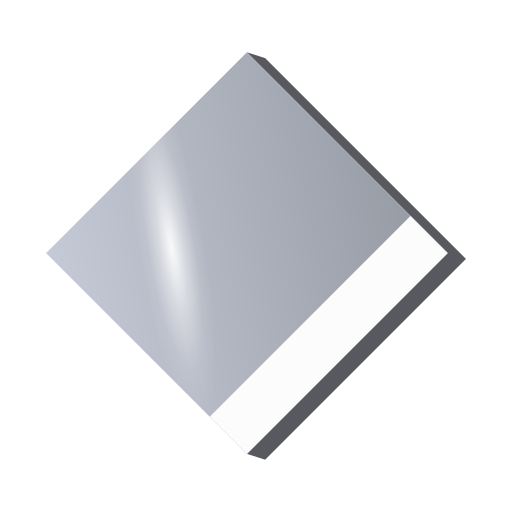
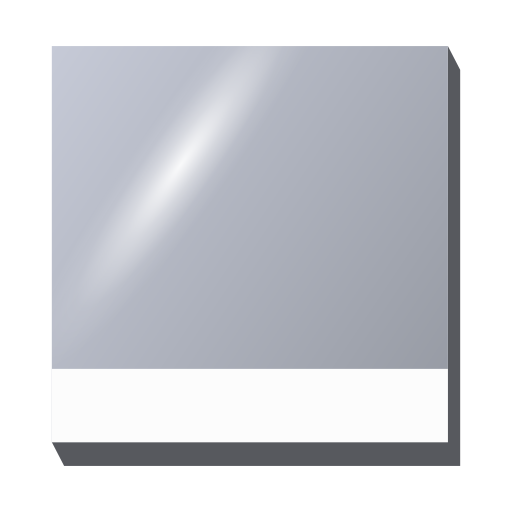
El cubo va de pie: dos esquinas arriba y dos abajo, no de canto
Un solo numero: GIRO pasa de -45 a 0. Todo lo demas del cubo —el canto,
la banda blanca, el reflejo y el plano del degradado de la plata— va
medido en los ejes de la CARA y no en los de la pantalla, asi que gira
con ella sin deformarse. Ese fue el motivo de haberlo escrito asi.

Rehechos desde el vector: los cinco SVG (pestana, sencillo, app, app
sencillo y silueta para Safari), los ocho PNG del juego de iconos, el
.ico con sus seis tamanos dibujados uno a uno, los dos <symbol> que la
web usa por dentro y las tres imagenes de compartir.

La palabra de la marca sigue clavada en el canto de abajo. El numero que
la coloca cambia con la forma —el dibujo pasa de ocupar del 3,5 % al
96,5 % de su recuadro a ocupar del 2,08 % al 97,92 %—, asi que el 0,465
pasa a 0,4792. Y la bateria deja de llevar esa fraccion escrita: ahora
la mide con getBBox sobre el propio simbolo, de modo que si el cubo
vuelve a cambiar de forma la comprobacion cambia con el en vez de
quedarse mintiendo.

Las 18 baterias en verde.

Claude-Session: https://claude.ai/code/session_01LJT6Q3uWtj4pZqCrqcq3WD

diff --git a/index.html b/index.html
@@ -1730,20 +1730,20 @@ html[dir="rtl"] .subir{left:16px !important;right:auto !important}
    doble de lo que parecía. */
 .hd .brand{--n:30px;gap:5px;align-items:center}
 .hd .brand svg{width:var(--n);height:var(--n)}
-/* La palabra se apoya en la punta de abajo del rombo, clavada.
+/* La palabra se apoya en el canto de abajo del cubo, clavada.
    No vale align-items:baseline en el .brand: eso alinea, sí, pero de paso
    mete debajo el hueco de las letras con rabo, la caja de la marca crece y,
    al centrarse en la barra, el conjunto sube y la palabra queda colgando.
-   Se hace al revés: el rombo se queda centrado en la barra —donde estaba— y
+   Se hace al revés: el cubo se queda centrado en la barra —donde estaba— y
    la palabra se baja ella sola, sin tocar la maquetación.
 
    El número no es a ojo. Con line-height:1 y centrada, la línea de base cae
-   0,3824 em por debajo del centro del rombo (métrica de la Switzer), y la
-   punta cae 0,465 × el lado del rombo (el dibujo ocupa del 3,5 % al 96,5 %
-   de su recuadro, medido con getBBox). La diferencia es lo que hay que
-   bajar, y escrito así sigue saliendo bien si cambia el cuerpo o el tamaño
-   del logotipo. */
-.hd .brand .bw{line-height:1;transform:translateY(calc(var(--n) * 0.465 - 0.3824em))}
+   0,3824 em por debajo del centro del cubo (métrica de la Switzer), y el
+   canto de abajo cae 0,4792 × el lado del cubo: el dibujo ocupa del 2,08 %
+   al 97,92 % de su recuadro, medido con getBBox. La diferencia es lo que hay
+   que bajar, y escrito así sigue saliendo bien si cambia el cuerpo o el
+   tamaño del logotipo. */
+.hd .brand .bw{line-height:1;transform:translateY(calc(var(--n) * 0.4792 - 0.3824em))}
 /* ── el boton de whitepaper, al extremo derecho ─────────────────────────────
    Quien lo empujaba a la derecha era el nav del centro (margin-inline:auto).
    Al ocultar esos enlaces en escritorio, la regla de 1000px que anula el
@@ -1912,27 +1912,29 @@ html[dir="rtl"] .ann-in:hover .ann-go{transform:scaleX(-1) translateX(4px)}
      anterior. Los degradados van aqui fuera y no dentro de cada <symbol>,
      porque referenciar un id desde dentro del arbol que clona <use> no es
      fiable en todos los navegadores; declarados en el documento, si.
-     Van en userSpaceOnUse, en el espacio local del <g> del simbolo. -->
+     Van en userSpaceOnUse, en el espacio local del <g> del simbolo.
+     Se generan con herramientas/logo/logo.py; el cubo va de pie (GIRO 0),
+     no de canto. -->
 <defs>
-  <linearGradient id="nrmPlata" gradientUnits="userSpaceOnUse" x1="63.94" y1="390.33" x2="608.06" y2="281.67"><stop offset="0" stop-color="#C6CAD7"/><stop offset="1" stop-color="#9498A1"/></linearGradient>
-  <radialGradient id="nrmBrillo" gradientUnits="userSpaceOnUse" cx="0" cy="0" r="1" gradientTransform="translate(229.93 328.93) rotate(-9.60) scale(47.20 252.40)"><stop offset="0" stop-color="#fff" stop-opacity="0.92"/><stop offset=".36" stop-color="#fff" stop-opacity="0.43"/><stop offset=".70" stop-color="#fff" stop-opacity="0.10"/><stop offset="1" stop-color="#fff" stop-opacity="0"/></radialGradient>
+  <linearGradient id="nrmPlata" gradientUnits="userSpaceOnUse" x1="105.20" y1="182.04" x2="566.80" y2="489.96"><stop offset="0" stop-color="#C6CAD7"/><stop offset="1" stop-color="#9498A1"/></linearGradient>
+  <radialGradient id="nrmBrillo" gradientUnits="userSpaceOnUse" cx="0" cy="0" r="1" gradientTransform="translate(266.00 256.00) rotate(35.40) scale(47.20 252.40)"><stop offset="0" stop-color="#fff" stop-opacity="0.92"/><stop offset=".36" stop-color="#fff" stop-opacity="0.43"/><stop offset=".70" stop-color="#fff" stop-opacity="0.10"/><stop offset="1" stop-color="#fff" stop-opacity="0"/></radialGradient>
 </defs>
 <symbol id="nlogo" viewBox="0 0 672 672">
-  <g transform="translate(-43.88 -34.34) scale(1.0889)">
-    <path fill="#57595E" d="M336.00 53.16 L361.74 61.36 L644.58 344.20 L361.74 627.05 L336.00 618.84 L618.84 336.00 Z"/>
-    <path fill="url(#nrmPlata)" d="M53.16 336.00 L336.00 53.16 L618.84 336.00 L336.00 618.84 Z"/>
-    <path fill="url(#nrmBrillo)" d="M53.16 336.00 L336.00 53.16 L618.84 336.00 L336.00 618.84 Z"/>
-    <path fill="#FCFCFC" d="M283.67 566.52 L566.52 283.67 L618.84 336.00 L336.00 618.84 Z"/>
+  <g transform="translate(-183.76 -192.57) scale(1.5189)">
+    <path fill="#57595E" d="M536.00 136.00 L548.40 160.00 L548.40 560.00 L148.40 560.00 L136.00 536.00 L536.00 536.00 Z"/>
+    <path fill="url(#nrmPlata)" d="M136.00 136.00 L536.00 136.00 L536.00 536.00 L136.00 536.00 Z"/>
+    <path fill="url(#nrmBrillo)" d="M136.00 136.00 L536.00 136.00 L536.00 536.00 L136.00 536.00 Z"/>
+    <path fill="#FCFCFC" d="M136.00 462.00 L536.00 462.00 L536.00 536.00 L136.00 536.00 Z"/>
   </g>
 </symbol>
 <!-- El pequeno lleva el mismo reflejo: sin el, a 30 px en la cabecera el cubo
      se veia plano, que es justo donde mas se mira. -->
 <symbol id="nlogo-s" viewBox="0 0 672 672">
-  <g transform="translate(-43.88 -34.34) scale(1.0889)">
-    <path fill="#57595E" d="M336.00 53.16 L361.74 61.36 L644.58 344.20 L361.74 627.05 L336.00 618.84 L618.84 336.00 Z"/>
-    <path fill="url(#nrmPlata)" d="M53.16 336.00 L336.00 53.16 L618.84 336.00 L336.00 618.84 Z"/>
-    <path fill="url(#nrmBrillo)" d="M53.16 336.00 L336.00 53.16 L618.84 336.00 L336.00 618.84 Z"/>
-    <path fill="#FCFCFC" d="M283.67 566.52 L566.52 283.67 L618.84 336.00 L336.00 618.84 Z"/>
+  <g transform="translate(-183.76 -192.57) scale(1.5189)">
+    <path fill="#57595E" d="M536.00 136.00 L548.40 160.00 L548.40 560.00 L148.40 560.00 L136.00 536.00 L536.00 536.00 Z"/>
+    <path fill="url(#nrmPlata)" d="M136.00 136.00 L536.00 136.00 L536.00 536.00 L136.00 536.00 Z"/>
+    <path fill="url(#nrmBrillo)" d="M136.00 136.00 L536.00 136.00 L536.00 536.00 L136.00 536.00 Z"/>
+    <path fill="#FCFCFC" d="M136.00 462.00 L536.00 462.00 L536.00 536.00 L136.00 536.00 Z"/>
   </g>
 </symbol></svg>
 <div id="wash" aria-hidden="true"></div>

diff --git a/herramientas/og/portada.html b/herramientas/og/portada.html
@@ -23,11 +23,11 @@
               align-items:center;justify-content:center">
     <div style="width:250px;height:250px;margin-bottom:56px;
                 filter:drop-shadow(0 22px 44px rgba(30,52,102,.20))"><svg xmlns="http://www.w3.org/2000/svg" viewBox="0 0 250 250">
-<defs><linearGradient id="plata" gradientUnits="userSpaceOnUse" x1="4.56" y1="146.23" x2="234.56" y2="100.30"><stop offset="0" stop-color="#C6CAD7"/><stop offset="1" stop-color="#9498A1"/></linearGradient><radialGradient id="brillo" gradientUnits="userSpaceOnUse" cx="0" cy="0" r="1" gradientTransform="translate(74.73 120.28) rotate(-9.60) scale(19.95 106.69)"><stop offset="0" stop-color="#fff" stop-opacity="0.92"/><stop offset=".36" stop-color="#fff" stop-opacity="0.43"/><stop offset=".70" stop-color="#fff" stop-opacity="0.10"/><stop offset="1" stop-color="#fff" stop-opacity="0"/></radialGradient></defs>
-<path fill="#57595E" d="M119.56 3.71 L130.44 7.17 L250.00 126.73 L130.44 246.29 L119.56 242.83 L239.12 123.27 Z"/>
-<path fill="url(#plata)" d="M0.00 123.27 L119.56 3.71 L239.12 123.27 L119.56 242.83 Z"/>
-<path fill="url(#brillo)" d="M0.00 123.27 L119.56 3.71 L239.12 123.27 L119.56 242.83 Z"/>
-<path fill="#FCFCFC" d="M97.44 220.71 L217.00 101.15 L239.12 123.27 L119.56 242.83 Z"/>
+<defs><linearGradient id="plata" gradientUnits="userSpaceOnUse" x1="-14.74" y1="27.15" x2="257.43" y2="208.70"><stop offset="0" stop-color="#C6CAD7"/><stop offset="1" stop-color="#9498A1"/></linearGradient><radialGradient id="brillo" gradientUnits="userSpaceOnUse" cx="0" cy="0" r="1" gradientTransform="translate(80.07 70.75) rotate(35.40) scale(27.83 148.82)"><stop offset="0" stop-color="#fff" stop-opacity="0.92"/><stop offset=".36" stop-color="#fff" stop-opacity="0.43"/><stop offset=".70" stop-color="#fff" stop-opacity="0.10"/><stop offset="1" stop-color="#fff" stop-opacity="0"/></radialGradient></defs>
+<path fill="#57595E" d="M239.27 -0.00 L246.58 14.15 L246.58 250.00 L10.73 250.00 L3.42 235.85 L239.27 235.85 Z"/>
+<path fill="url(#plata)" d="M3.42 -0.00 L239.27 -0.00 L239.27 235.85 L3.42 235.85 Z"/>
+<path fill="url(#brillo)" d="M3.42 -0.00 L239.27 -0.00 L239.27 235.85 L3.42 235.85 Z"/>
+<path fill="#FCFCFC" d="M3.42 192.22 L239.27 192.22 L239.27 235.85 L3.42 235.85 Z"/>
 </svg>
 </div>
     <div style="font-size:170px;font-weight:400;letter-spacing:-.055em;line-height:1;

diff --git a/herramientas/og/whitepaper.html b/herramientas/og/whitepaper.html
@@ -21,11 +21,11 @@
   <div style="position:absolute;right:110px;top:50%;transform:translateY(-50%);
               width:720px;height:720px;
               filter:drop-shadow(0 30px 60px rgba(30,52,102,.24))"><svg xmlns="http://www.w3.org/2000/svg" viewBox="0 0 720 720">
-<defs><linearGradient id="plata" gradientUnits="userSpaceOnUse" x1="13.12" y1="421.15" x2="675.54" y2="288.86"><stop offset="0" stop-color="#C6CAD7"/><stop offset="1" stop-color="#9498A1"/></linearGradient><radialGradient id="brillo" gradientUnits="userSpaceOnUse" cx="0" cy="0" r="1" gradientTransform="translate(215.21 346.40) rotate(-9.60) scale(57.46 307.27)"><stop offset="0" stop-color="#fff" stop-opacity="0.92"/><stop offset=".36" stop-color="#fff" stop-opacity="0.43"/><stop offset=".70" stop-color="#fff" stop-opacity="0.10"/><stop offset="1" stop-color="#fff" stop-opacity="0"/></radialGradient></defs>
-<path fill="#57595E" d="M344.33 10.67 L375.67 20.66 L720.00 364.99 L375.67 709.33 L344.33 699.34 L688.67 355.01 Z"/>
-<path fill="url(#plata)" d="M0.00 355.01 L344.33 10.67 L688.67 355.01 L344.33 699.34 Z"/>
-<path fill="url(#brillo)" d="M0.00 355.01 L344.33 10.67 L688.67 355.01 L344.33 699.34 Z"/>
-<path fill="#FCFCFC" d="M280.63 635.64 L624.96 291.31 L688.67 355.01 L344.33 699.34 Z"/>
+<defs><linearGradient id="plata" gradientUnits="userSpaceOnUse" x1="-42.45" y1="78.19" x2="741.39" y2="601.06"><stop offset="0" stop-color="#C6CAD7"/><stop offset="1" stop-color="#9498A1"/></linearGradient><radialGradient id="brillo" gradientUnits="userSpaceOnUse" cx="0" cy="0" r="1" gradientTransform="translate(230.60 203.77) rotate(35.40) scale(80.15 428.60)"><stop offset="0" stop-color="#fff" stop-opacity="0.92"/><stop offset=".36" stop-color="#fff" stop-opacity="0.43"/><stop offset=".70" stop-color="#fff" stop-opacity="0.10"/><stop offset="1" stop-color="#fff" stop-opacity="0"/></radialGradient></defs>
+<path fill="#57595E" d="M689.09 0.00 L710.15 40.75 L710.15 720.00 L30.91 720.00 L9.85 679.25 L689.09 679.25 Z"/>
+<path fill="url(#plata)" d="M9.85 0.00 L689.09 0.00 L689.09 679.25 L9.85 679.25 Z"/>
+<path fill="url(#brillo)" d="M9.85 0.00 L689.09 0.00 L689.09 679.25 L9.85 679.25 Z"/>
+<path fill="#FCFCFC" d="M9.85 553.58 L689.09 553.58 L689.09 679.25 L9.85 679.25 Z"/>
 </svg>
 </div>
   <div style="position:absolute;left:172px;top:50%;transform:translateY(-50%)">

diff --git a/herramientas/og/explorer.html b/herramientas/og/explorer.html
@@ -15,11 +15,11 @@
   <div style="position:absolute;left:50%;top:300px;transform:translate(-50%,-50%);
               width:330px;height:330px;
               filter:drop-shadow(0 26px 60px rgba(0,0,0,.55))"><svg xmlns="http://www.w3.org/2000/svg" viewBox="0 0 330 330">
-<defs><linearGradient id="plata" gradientUnits="userSpaceOnUse" x1="6.02" y1="193.03" x2="309.62" y2="132.39"><stop offset="0" stop-color="#C6CAD7"/><stop offset="1" stop-color="#9498A1"/></linearGradient><radialGradient id="brillo" gradientUnits="userSpaceOnUse" cx="0" cy="0" r="1" gradientTransform="translate(98.64 158.77) rotate(-9.60) scale(26.34 140.83)"><stop offset="0" stop-color="#fff" stop-opacity="0.92"/><stop offset=".36" stop-color="#fff" stop-opacity="0.43"/><stop offset=".70" stop-color="#fff" stop-opacity="0.10"/><stop offset="1" stop-color="#fff" stop-opacity="0"/></radialGradient></defs>
-<path fill="#57595E" d="M157.82 4.89 L172.18 9.47 L330.00 167.29 L172.18 325.11 L157.82 320.53 L315.64 162.71 Z"/>
-<path fill="url(#plata)" d="M0.00 162.71 L157.82 4.89 L315.64 162.71 L157.82 320.53 Z"/>
-<path fill="url(#brillo)" d="M0.00 162.71 L157.82 4.89 L315.64 162.71 L157.82 320.53 Z"/>
-<path fill="#FCFCFC" d="M128.62 291.33 L286.44 133.52 L315.64 162.71 L157.82 320.53 Z"/>
+<defs><linearGradient id="plata" gradientUnits="userSpaceOnUse" x1="-19.46" y1="35.84" x2="339.80" y2="275.49"><stop offset="0" stop-color="#C6CAD7"/><stop offset="1" stop-color="#9498A1"/></linearGradient><radialGradient id="brillo" gradientUnits="userSpaceOnUse" cx="0" cy="0" r="1" gradientTransform="translate(105.69 93.40) rotate(35.40) scale(36.74 196.44)"><stop offset="0" stop-color="#fff" stop-opacity="0.92"/><stop offset=".36" stop-color="#fff" stop-opacity="0.43"/><stop offset=".70" stop-color="#fff" stop-opacity="0.10"/><stop offset="1" stop-color="#fff" stop-opacity="0"/></radialGradient></defs>
+<path fill="#57595E" d="M315.83 0.00 L325.49 18.68 L325.49 330.00 L14.17 330.00 L4.51 311.32 L315.83 311.32 Z"/>
+<path fill="url(#plata)" d="M4.51 0.00 L315.83 0.00 L315.83 311.32 L4.51 311.32 Z"/>
+<path fill="url(#brillo)" d="M4.51 0.00 L315.83 0.00 L315.83 311.32 L4.51 311.32 Z"/>
+<path fill="#FCFCFC" d="M4.51 253.73 L315.83 253.73 L315.83 311.32 L4.51 311.32 Z"/>
 </svg>
 </div>
   <div style="position:absolute;left:0;right:0;top:640px;text-align:center">

diff --git a/herramientas/marca.py b/herramientas/marca.py
@@ -16,27 +16,29 @@ NUEVO = """<svg width="0" height="0" style="position:absolute" aria-hidden="true
      anterior. Los degradados van aqui fuera y no dentro de cada <symbol>,
      porque referenciar un id desde dentro del arbol que clona <use> no es
      fiable en todos los navegadores; declarados en el documento, si.
-     Van en userSpaceOnUse, en el espacio local del <g> del simbolo. -->
+     Van en userSpaceOnUse, en el espacio local del <g> del simbolo.
+     Se generan con herramientas/logo/logo.py; el cubo va de pie (GIRO 0),
+     no de canto. -->
 <defs>
-  <linearGradient id="nrmPlata" gradientUnits="userSpaceOnUse" x1="63.94" y1="390.33" x2="608.06" y2="281.67"><stop offset="0" stop-color="#C6CAD7"/><stop offset="1" stop-color="#9498A1"/></linearGradient>
-  <radialGradient id="nrmBrillo" gradientUnits="userSpaceOnUse" cx="0" cy="0" r="1" gradientTransform="translate(229.93 328.93) rotate(-9.60) scale(47.20 252.40)"><stop offset="0" stop-color="#fff" stop-opacity="0.92"/><stop offset=".36" stop-color="#fff" stop-opacity="0.43"/><stop offset=".70" stop-color="#fff" stop-opacity="0.10"/><stop offset="1" stop-color="#fff" stop-opacity="0"/></radialGradient>
+  <linearGradient id="nrmPlata" gradientUnits="userSpaceOnUse" x1="105.20" y1="182.04" x2="566.80" y2="489.96"><stop offset="0" stop-color="#C6CAD7"/><stop offset="1" stop-color="#9498A1"/></linearGradient>
+  <radialGradient id="nrmBrillo" gradientUnits="userSpaceOnUse" cx="0" cy="0" r="1" gradientTransform="translate(266.00 256.00) rotate(35.40) scale(47.20 252.40)"><stop offset="0" stop-color="#fff" stop-opacity="0.92"/><stop offset=".36" stop-color="#fff" stop-opacity="0.43"/><stop offset=".70" stop-color="#fff" stop-opacity="0.10"/><stop offset="1" stop-color="#fff" stop-opacity="0"/></radialGradient>
 </defs>
 <symbol id="nlogo" viewBox="0 0 672 672">
-  <g transform="translate(-43.88 -34.34) scale(1.0889)">
-    <path fill="#57595E" d="M336.00 53.16 L361.74 61.36 L644.58 344.20 L361.74 627.05 L336.00 618.84 L618.84 336.00 Z"/>
-    <path fill="url(#nrmPlata)" d="M53.16 336.00 L336.00 53.16 L618.84 336.00 L336.00 618.84 Z"/>
-    <path fill="url(#nrmBrillo)" d="M53.16 336.00 L336.00 53.16 L618.84 336.00 L336.00 618.84 Z"/>
-    <path fill="#FCFCFC" d="M283.67 566.52 L566.52 283.67 L618.84 336.00 L336.00 618.84 Z"/>
+  <g transform="translate(-183.76 -192.57) scale(1.5189)">
+    <path fill="#57595E" d="M536.00 136.00 L548.40 160.00 L548.40 560.00 L148.40 560.00 L136.00 536.00 L536.00 536.00 Z"/>
+    <path fill="url(#nrmPlata)" d="M136.00 136.00 L536.00 136.00 L536.00 536.00 L136.00 536.00 Z"/>
+    <path fill="url(#nrmBrillo)" d="M136.00 136.00 L536.00 136.00 L536.00 536.00 L136.00 536.00 Z"/>
+    <path fill="#FCFCFC" d="M136.00 462.00 L536.00 462.00 L536.00 536.00 L136.00 536.00 Z"/>
   </g>
 </symbol>
 <!-- El pequeno lleva el mismo reflejo: sin el, a 30 px en la cabecera el cubo
      se veia plano, que es justo donde mas se mira. -->
 <symbol id="nlogo-s" viewBox="0 0 672 672">
-  <g transform="translate(-43.88 -34.34) scale(1.0889)">
-    <path fill="#57595E" d="M336.00 53.16 L361.74 61.36 L644.58 344.20 L361.74 627.05 L336.00 618.84 L618.84 336.00 Z"/>
-    <path fill="url(#nrmPlata)" d="M53.16 336.00 L336.00 53.16 L618.84 336.00 L336.00 618.84 Z"/>
-    <path fill="url(#nrmBrillo)" d="M53.16 336.00 L336.00 53.16 L618.84 336.00 L336.00 618.84 Z"/>
-    <path fill="#FCFCFC" d="M283.67 566.52 L566.52 283.67 L618.84 336.00 L336.00 618.84 Z"/>
+  <g transform="translate(-183.76 -192.57) scale(1.5189)">
+    <path fill="#57595E" d="M536.00 136.00 L548.40 160.00 L548.40 560.00 L148.40 560.00 L136.00 536.00 L536.00 536.00 Z"/>
+    <path fill="url(#nrmPlata)" d="M136.00 136.00 L536.00 136.00 L536.00 536.00 L136.00 536.00 Z"/>
+    <path fill="url(#nrmBrillo)" d="M136.00 136.00 L536.00 136.00 L536.00 536.00 L136.00 536.00 Z"/>
+    <path fill="#FCFCFC" d="M136.00 462.00 L536.00 462.00 L536.00 536.00 L136.00 536.00 Z"/>
   </g>
 </symbol></svg>"""
 

diff --git a/herramientas/logo/logo.py b/herramientas/logo/logo.py
@@ -3,7 +3,9 @@
 
 Todo lo de aqui esta medido sobre nereum_cube_logo_v4_polished.png (787x785),
 no estimado a ojo. La cara se ajusto como cuadrado girado: lado 517,9 px,
-centro (393,0 · 390,8), giro -16,96 grados. Sobre esa cara, y en sus propios
+centro (393,0 · 390,8), giro -16,96 grados. GIRO decide como se apoya el cubo
+—0 de pie, -45 de canto— y todo lo demas va medido en los ejes de la CARA, no
+en los de la pantalla, asi que gira con ella sin deformarse. Sobre esa cara, y en sus propios
 ejes, se midio lo demas:
 
   · el degradado de la plata es un PLANO, ajustado por minimos cuadrados sobre
@@ -29,7 +31,7 @@ flotando sobre blanco, no de la marca (en la web la pone el CSS).
 """
 import math
 
-GIRO = -45.0                     # grados; negativo = sentido antihorario en pantalla
+GIRO = 0.0                       # cuadrado de pie; -45 lo pone de canto, en rombo
 BANDA = 0.185                    # fracción inferior de la cara que es blanca
 CANTO_U, CANTO_V = 0.031, 0.060  # cuánto asoma el canto, en ejes de la cara
 
